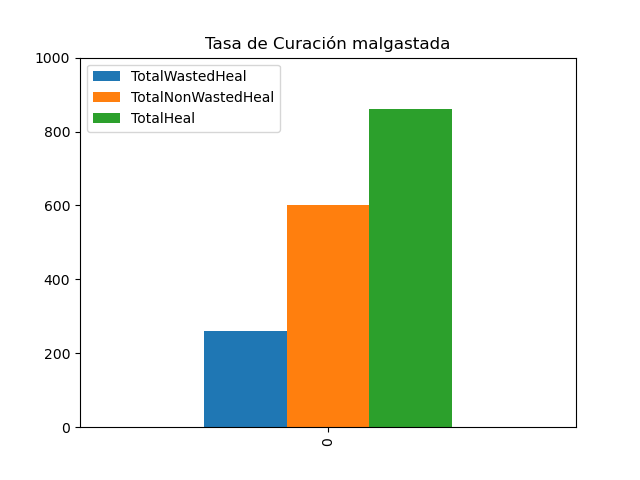
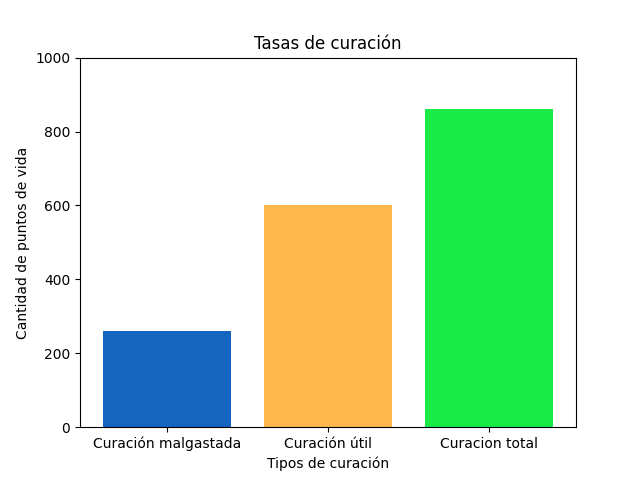
graficos de metricas más legibles

diff --git a/Analisis/HeatMapsYMetricas/Analisis.py b/Analisis/HeatMapsYMetricas/Analisis.py
@@ -40,7 +40,8 @@ def Metrica1():
     #Metrica 1
     mlabels = ['MuTut','MuN1','MuN2','MuN3']
     ar = [sum(singleDf['MuTut']), sum(singleDf['MuN1']), sum(singleDf['MuN2']), sum(singleDf['MuN3'])]
-    plt.pie(ar, labels = mlabels, startangle = 90)
+    mNames= ['Tutorial', 'Nivel 1', 'Nivel 2', 'Nivel 3'] #Nombres mas legibles
+    plt.pie(ar, labels = mNames, startangle = 90)
     plt.title("Distribución de Muertes por Nivel")
     plt.savefig('./Metricas/Metrica1.png')
 
@@ -50,8 +51,19 @@ def Metrica3():
     ar = [sum(singleDf['MuSpike']), sum(singleDf['MuE1']), sum(singleDf['MuE2']), sum(singleDf['MuE3']), sum(singleDf['MuFi']), sum(singleDf['MuIc'])]
     
     plt.clf()
-    plt.pie(ar, labels = mlabels, startangle = 90)
+    mNames= ['Pinchos', 'Enemigo 1', 'Enemigo 2', 'Enemigo 3', 'Enemigo Fuego', 'Enemigo Hielo'] #Nombres mas legibles
+    '''plt.pie(ar, labels = mNames, startangle = 90)
+    plt.xticks(rotation=45)
     plt.title("Distribución de Causas de Muertes")
+    plt.savefig('./Metricas/Metrica3.png')'''
+
+    plt.bar(mNames, ar, color=['#1565c0', '#ffb74d', "#19ea46","#e53935", "#d04cd7ff", "#000e6bff"]) #para que no se quede ese 0
+    plt.xticks(rotation=45)
+    plt.subplots_adjust(bottom=0.25)
+    #max = auxdf.plot(y=['TimTut', 'TimN1', 'TimN2', 'TimN3'], kind='bar')
+    plt.title("Distribución de Causas de Muertes")
+    plt.xlabel("Tipo obstáculo enemigo")
+    plt.ylabel("Cantidad de muertes")
     plt.savefig('./Metricas/Metrica3.png')
 
 def Metrica4():
@@ -60,13 +72,19 @@ def Metrica4():
     ar1=np.array([sum(singleDf['TimTut']),sum(singleDf['TimN1']),sum(singleDf['TimN2']),sum(singleDf['TimN3'])])    
     ar2 = np.array([len(singleDf[singleDf['TimTut'] != 0]),len(singleDf[singleDf['TimN1'] != 0]),len(singleDf[singleDf['TimN2'] != 0]),len(singleDf[singleDf['TimN3'] != 0])])
     ar2[ar2==0]=1
-    ar=ar1/ar2
+    ar= (ar1/ar2) / 60000 # pasamos a minutos para que sea mas legible
     
     auxdf = pd.DataFrame(columns = mlabels)
     auxdf.loc[0] = ar
     plt.clf()
-    max = auxdf.plot(y=['TimTut', 'TimN1', 'TimN2', 'TimN3'], kind='bar')
+
+    mNames= ['Tutorial', 'Nivel 1', 'Nivel 2', 'Nivel 3'] #Nombres mas legibles
+    plt.bar(mNames, ar, color=['#1565c0', '#ffb74d', "#19ea46",'#e53935']) #para que no se quede ese 0
+
+    #max = auxdf.plot(y=['TimTut', 'TimN1', 'TimN2', 'TimN3'], kind='bar')
     plt.title("Distribución de Tiempo tardado por Nivel")
+    plt.xlabel("Niveles")
+    plt.ylabel("Tiempo Medio (Minutos)")
     plt.savefig('./Metricas/Metrica4.png')
 
 def Metrica5():
@@ -96,8 +114,15 @@ def Metrica7():
     ar = [sum(singleDf['DamTut']), sum(singleDf['DamN1']), sum(singleDf['DamN2']), sum(singleDf['DamN3'])]
     
     auxdf.loc[0] = ar
-    max = auxdf.plot(y=['DamTut','DamN1','DamN2','DamN3'], kind='bar')
+
+    plt.clf()
+    mNames= ['Tutorial', 'Nivel 1', 'Nivel 2', 'Nivel 3'] #Nombres mas legibles
+    plt.bar(mNames, ar, color=['#1565c0', '#ffb74d', "#19ea46",'#e53935'])
+    #max = auxdf.plot(y=['DamTut','DamN1','DamN2','DamN3'], kind='bar')
+
     plt.title("Distribución de Daño recibido por el jugador en cada nivel")
+    plt.xlabel("Niveles")
+    plt.ylabel("Cantidad de puntos de vida")
     plt.savefig('./Metricas/Metrica7.png')
 
 def Metrica8():
@@ -107,8 +132,17 @@ def Metrica8():
     auxdf = pd.DataFrame(columns = mlabels)
     
     auxdf.loc[0] = ar
-    max = auxdf.plot(y=['DamE1', 'DamE2', 'DamE3', 'DamFi', 'DamIc'], kind='bar')
+    
+    plt.clf()
+    mNames= ['Enemigo 1', 'Enemigo 2', 'Enemigo 3', 'Enemigo Fuego', 'Enemigo Hielo'] #Nombres mas legibles
+    plt.bar(mNames, ar, color=['#1565c0', '#ffb74d', "#19ea46",'#e53935', "#d04cd7ff"], align='center')
+    plt.xticks(rotation=45)
+    plt.subplots_adjust(bottom=0.25)
+
+    #max = auxdf.plot(y=['DamE1', 'DamE2', 'DamE3', 'DamFi', 'DamIc'], kind='bar')
     plt.title("Distribución de daño recibido por el jugador por causa")
+    plt.xlabel("Tipos enemigos")
+    plt.ylabel("Cantidad de puntos de vida")
     plt.savefig('./Metricas/Metrica8.png')
 
 def Metrica9():
@@ -132,9 +166,16 @@ def Metrica10():
 
     ar=[sum(singleDf['OvHeal']),sum(singleDf['AmountHeal'])-sum(singleDf['OvHeal']),sum(singleDf['AmountHeal'])]
     auxdf.loc[0] = ar
-    ax = auxdf.plot(y= ['TotalWastedHeal','TotalNonWastedHeal','TotalHeal'], kind='bar')
-    ax.set_ylim(0,1000) #Para ver el resultado como si fuera un porcentaje
-    plt.title("Tasa de Curación malgastada")
+
+    plt.clf()
+    mNames= ['Curación malgastada', 'Curación útil', 'Curacion total'] #Nombres mas legibles
+    plt.bar(mNames, ar, color=['#1565c0', '#ffb74d', "#19ea46"])
+    plt.ylim(0,1000)
+    #ax = auxdf.plot(y= ['TotalWastedHeal','TotalNonWastedHeal','TotalHeal'], kind='bar')
+    #ax.set_ylim(0,1000) #Para ver el resultado como si fuera un porcentaje
+    plt.title("Tasas de curación")
+    plt.xlabel("Tipos de curación")
+    plt.ylabel("Cantidad de puntos de vida")
     plt.savefig('./Metricas/Metrica10.png')
 
 def CallAllMetrics():
